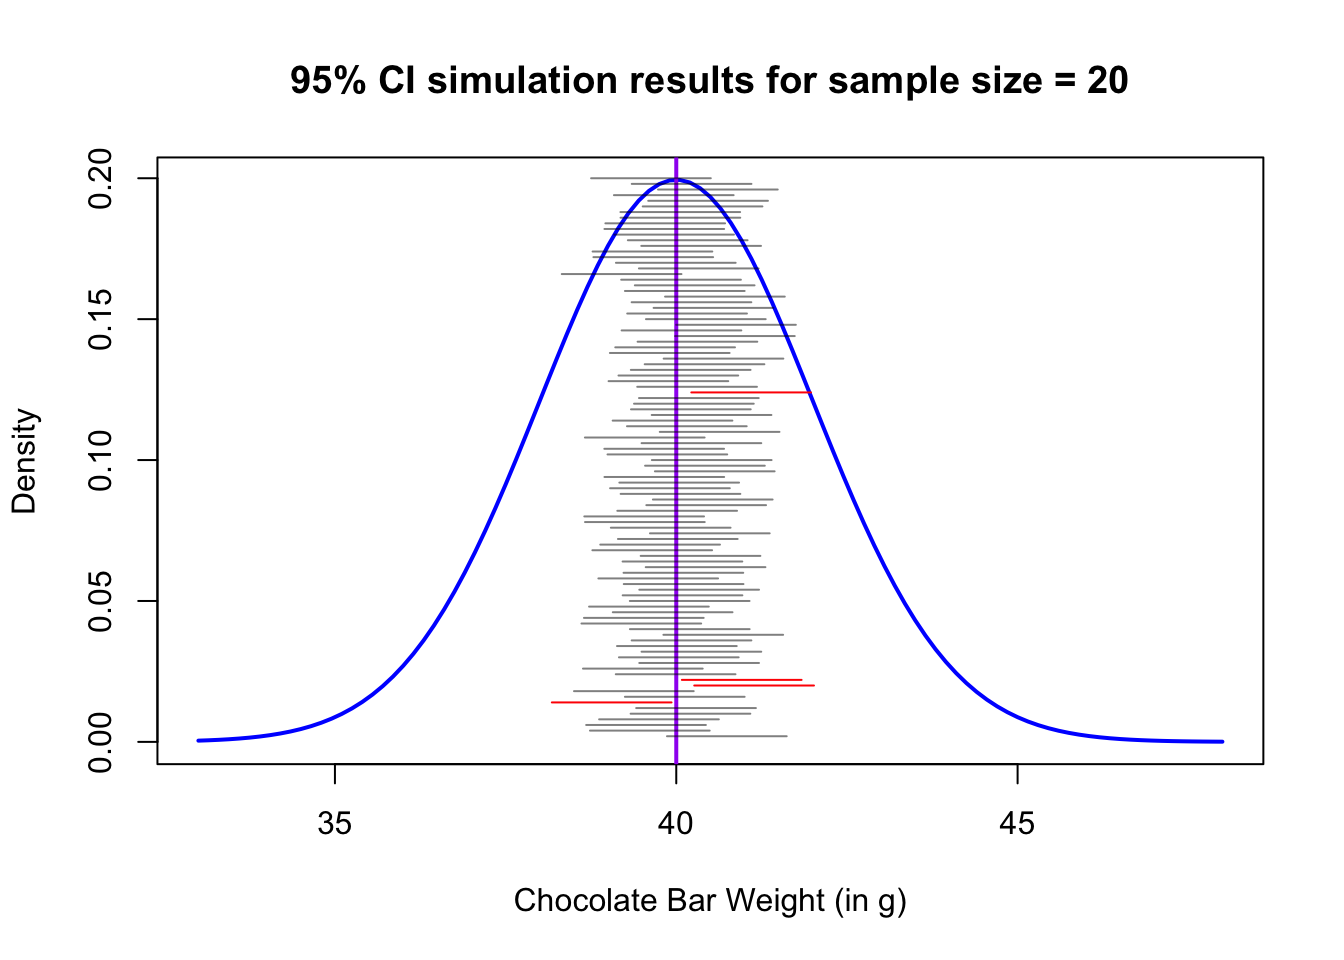
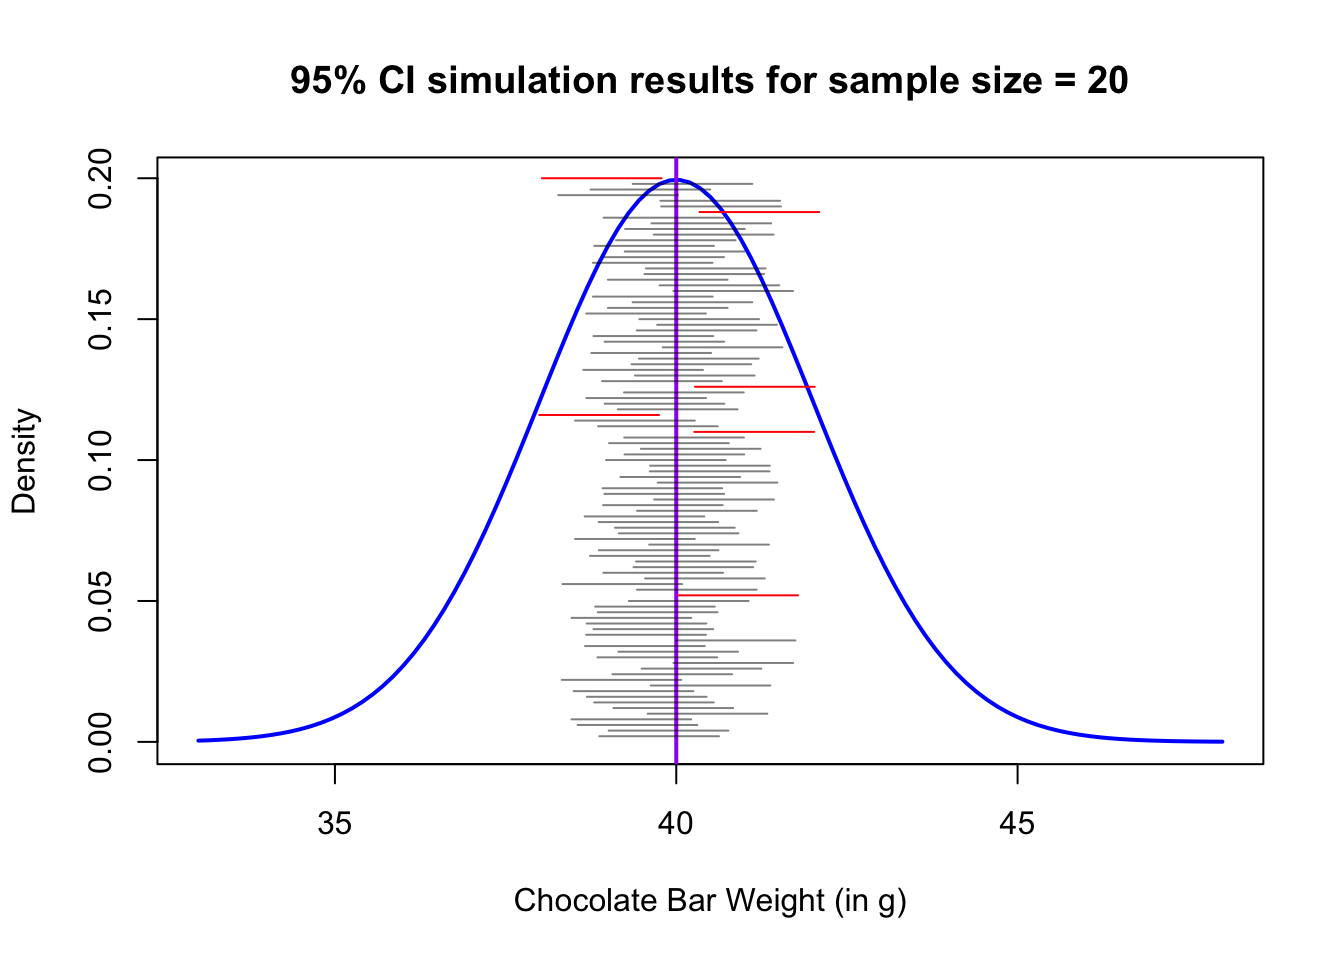
Minor edits

Changed region(s): [[0.4062, 0.1875, 0.5938, 0.7812]]

diff --git a/probability_sims.html b/probability_sims.html
@@ -96,7 +96,7 @@ pre > code.sourceCode > span > a:first-child::before { text-decoration: underlin
 
 <div class="cell">
 <div class="sourceCode cell-code" id="cb1"><pre class="sourceCode r code-with-copy"><code class="sourceCode r"><span id="cb1-1"><a href="#cb1-1" aria-hidden="true" tabindex="-1"></a><span class="fu">library</span>(tidyverse)</span>
-<span id="cb1-2"><a href="#cb1-2" aria-hidden="true" tabindex="-1"></a><span class="fu">set.seed</span>(<span class="dv">1</span>)</span></code><button title="Copy to Clipboard" class="code-copy-button"><i class="bi"></i></button></pre></div>
+<span id="cb1-2"><a href="#cb1-2" aria-hidden="true" tabindex="-1"></a><span class="fu">set.seed</span>(<span class="dv">1969</span>)</span></code><button title="Copy to Clipboard" class="code-copy-button"><i class="bi"></i></button></pre></div>
 </div>
 <section id="law-of-large-numbers" class="level2">
 <h2 class="anchored" data-anchor-id="law-of-large-numbers">Law of large numbers</h2>
@@ -118,6 +118,7 @@ pre > code.sourceCode > span > a:first-child::before { text-decoration: underlin
 </section>
 <section id="central-limit-theorem" class="level2">
 <h2 class="anchored" data-anchor-id="central-limit-theorem">Central limit theorem</h2>
+<p>see also: <a href="https://david-salazar.github.io/posts/fat-vs-thin-tails/2020-05-30-central-limit-theorem-in-action.html" class="uri">https://david-salazar.github.io/posts/fat-vs-thin-tails/2020-05-30-central-limit-theorem-in-action.html</a></p>
 <div class="cell">
 <div class="sourceCode cell-code" id="cb3"><pre class="sourceCode r code-with-copy"><code class="sourceCode r"><span id="cb3-1"><a href="#cb3-1" aria-hidden="true" tabindex="-1"></a>nsims <span class="ot">&lt;-</span> <span class="dv">1000</span></span>
 <span id="cb3-2"><a href="#cb3-2" aria-hidden="true" tabindex="-1"></a>n <span class="ot">&lt;-</span> <span class="dv">20</span></span>
@@ -133,7 +134,7 @@ pre > code.sourceCode > span > a:first-child::before { text-decoration: underlin
 <p><img src="probability_sims_files/figure-html/unnamed-chunk-3-1.png" class="img-fluid" width="672"></p>
 </div>
 <div class="cell-output cell-output-stdout">
-<pre><code>[1] 993 280</code></pre>
+<pre><code>[1] 924 823</code></pre>
 </div>
 <div class="sourceCode cell-code" id="cb5"><pre class="sourceCode r code-with-copy"><code class="sourceCode r"><span id="cb5-1"><a href="#cb5-1" aria-hidden="true" tabindex="-1"></a>normal.density <span class="ot">&lt;-</span> <span class="cf">function</span>(t) <span class="fu">dnorm</span>(t, <span class="fu">mean</span>(x), <span class="fu">sqrt</span>(<span class="fu">var</span>(x)))</span>
 <span id="cb5-2"><a href="#cb5-2" aria-hidden="true" tabindex="-1"></a></span>
